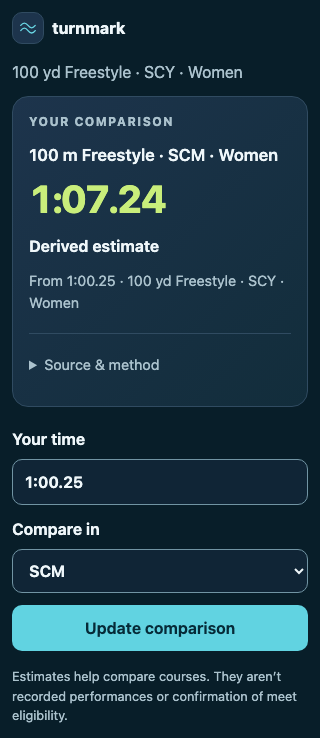
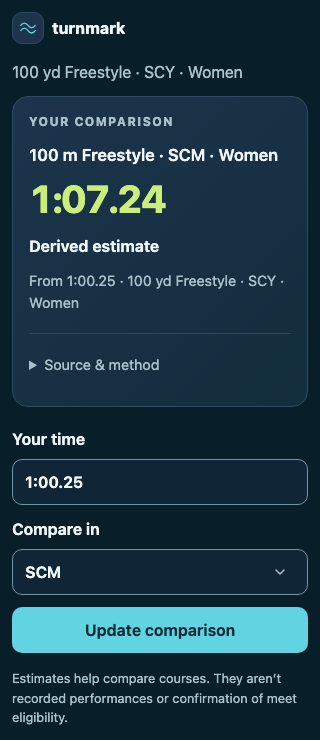
Align MCP card control spacing with the shared interface

diff --git a/packages/mcp/ui/app.css b/packages/mcp/ui/app.css
@@ -114,8 +114,33 @@ select {
   color: var(--tm-color-text);
   background: var(--tm-color-surface-input);
 }
+.select-wrap {
+  position: relative;
+}
 select {
-  padding-right: 28px;
+  appearance: none;
+  padding-right: 52px;
+}
+.select-wrap svg {
+  position: absolute;
+  right: 20px;
+  top: 50%;
+  transform: translateY(-50%);
+  pointer-events: none;
+  color: var(--tm-color-text-muted);
+}
+@media (forced-colors: active) {
+  select {
+    appearance: auto;
+  }
+  .select-wrap svg {
+    display: none;
+  }
+}
+@media (hover: hover) and (pointer: fine) {
+  button:not(:disabled):hover {
+    border-color: var(--tm-color-accent);
+  }
 }
 button {
   border: 1px solid transparent;
